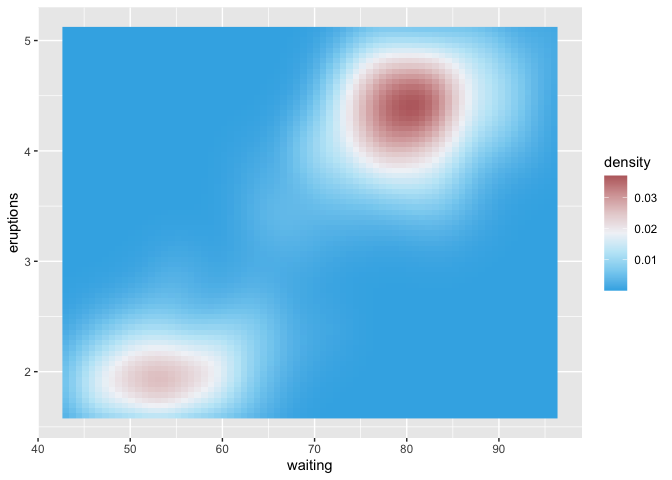
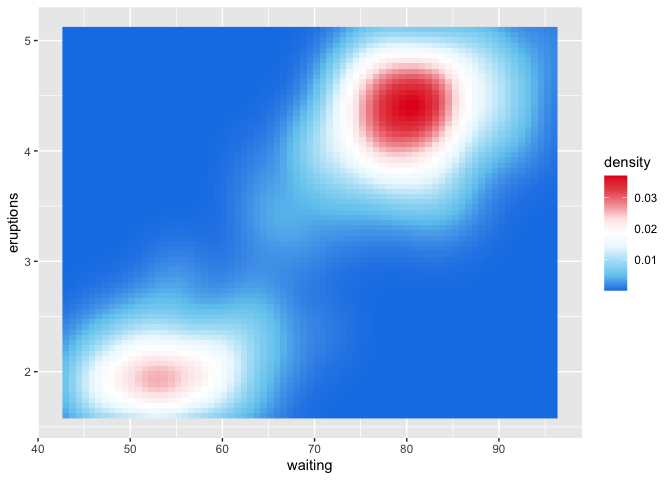
now with official hexes

diff --git a/README.md b/README.md
@@ -35,7 +35,7 @@ devtools::install_github("lu-harr/iddoPal")
 library(iddoPal)
 ```
 
-`iddoPal` comes with 1 3 discrete colour palette and 5 sequential colour
+`iddoPal` comes with 5 discrete colour palettes and 8 sequential colour
 palettes, which can be accessed from the following R objects:
 
 - `iddo_palettes_discrete` for discrete palettes
@@ -45,10 +45,10 @@ palettes, which can be accessed from the following R objects:
 To preview the palettes in the console simply print them:
 
 ``` r
-iddo_palettes_discrete
+# this doesn't render nicely in .Rmd, but try in your own R session:
+iddo_palettes_sequential
+iddo_palettes_discrete 
 ```
-
-<img src="man/figures/README-/iddo-palettes-discrete.svg" width="100%" />
 
 To preview the palettes in the Plots pane use `plot()`:
 
@@ -71,7 +71,7 @@ Palettes can be subset using `[`, `[[`, and `$`.
 - To extract a single palette as a colour vector use `[[` or `$`:
 
   ``` r
-  iddo_palettes_sequential[["blue_to_red"]]
+  iddo_palettes_sequential[["BlWhRd"]]
   ```
 
   <img src="man/figures/README-/extract-vector-1.svg" width="100%" />
@@ -86,7 +86,8 @@ Palettes can be subset using `[`, `[[`, and `$`.
 
   ``` r
   names(iddo_palettes_sequential)
-  #> [1] "blues"       "reds"        "reds_mute"   "greys"       "blue_to_red"
+  #> [1] "Blues"      "Reds"       "soft_blues" "soft_reds"  "greys"     
+  #> [6] "BlWhRd"     "BlRd"       "BlGyRd"
   ```
 
 ## Demonstration
@@ -103,7 +104,7 @@ ggplot(faithfuld,
     aes(fill = density)
   ) +
   scale_fill_gradientn(
-    colours = iddo_palettes$blue_to_red
+    colours = iddo_palettes$BlWhRd
   )
 ```
 
@@ -113,7 +114,7 @@ ggplot(faithfuld,
 
 # This isn't very elegant but I promise Base Graphics is usually the most 
 # straightforward way of doing things ! I promise !
-pal <- iddo_palettes$iddo[c(1,4,7)]
+pal <- iddo_palettes$iddo_new[3:5]
 
 plot(iris$Sepal.Length, iris$Petal.Length, 
      col = alpha(pal[as.numeric(as.factor(iris$Species))], 0.5),
